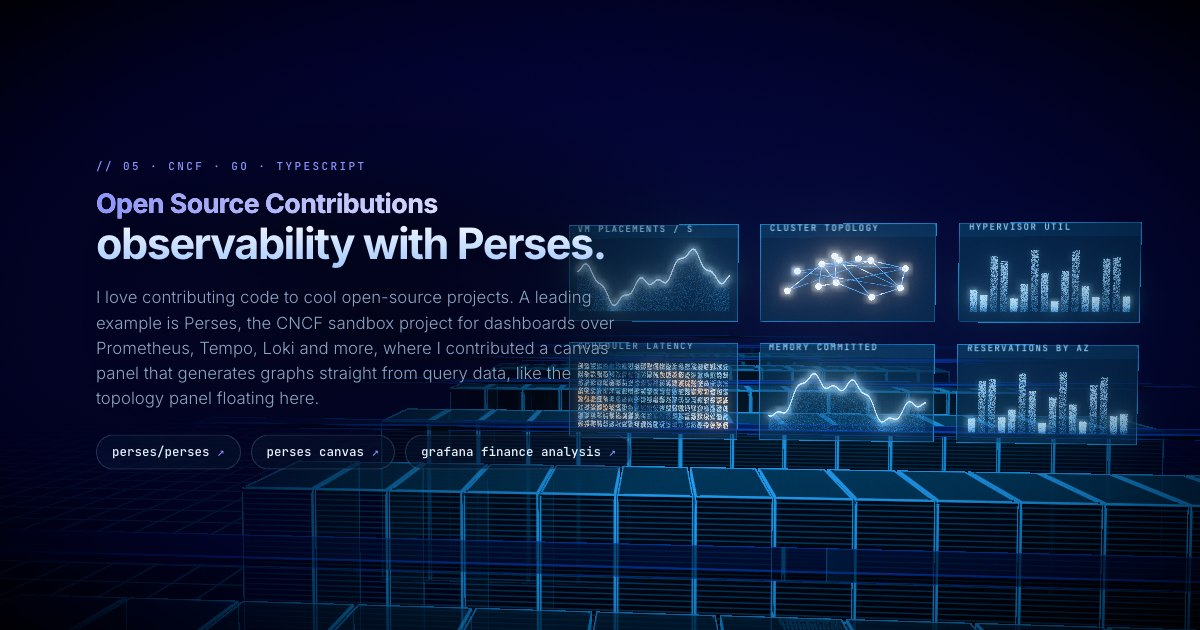
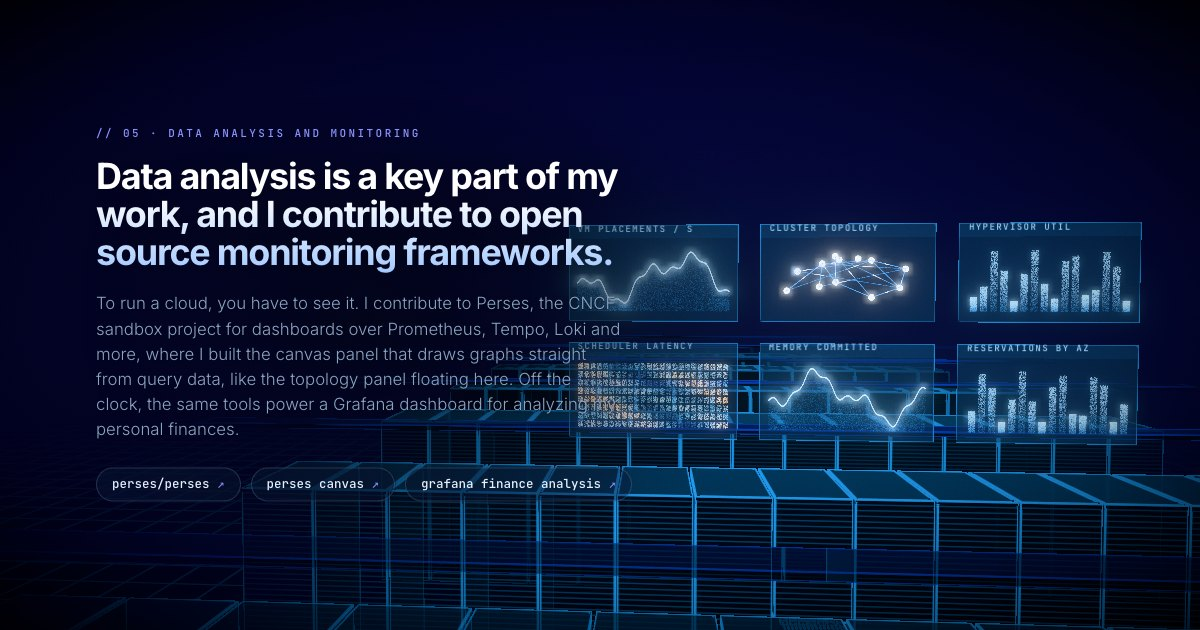
Refocus the chapter copy and keep the 3D cover readable on phones
Each chapter now leads with a first-person headline and a reframed
text; the agentic chapter is prose instead of bullets, and the menu
names follow the new focus. Chapter pages take the menu name as title
and the headline as description. On bottom-sheet screens the cover
orbit stops at a three-quarter view so the face doesn't turn edge-on.
Social previews are regenerated.

diff --git a/index.html b/index.html
@@ -50,13 +50,13 @@
           <span class="menu-title">Experience</span><span id="current-chapter" class="ticker" aria-live="polite"></span>
         </button>
         <ol id="experience" class="menu-list" hidden>
-          <li><a href="#threedify" data-goto="0.1">3D-Everything</a></li>
-          <li><a href="#sci" data-goto="0.268">SCI: Global Cloud Platform Development</a></li>
-          <li><a href="#cortex" data-goto="0.45">Cortex: Intelligent Workload Placement</a></li>
-          <li><a href="#agentic" data-goto="0.535">Agentic Pipelines and Operations</a></li>
-          <li><a href="#perses" data-goto="0.645">Open Source</a></li>
-          <li><a href="#research" data-goto="0.78">Data Science and Machine Learning</a></li>
-          <li><a href="#priobike" data-goto="0.895">Smart City and Navigation Systems</a></li>
+          <li><a href="#threedify" data-goto="0.1">iOS Engineering &amp; 3D Design</a></li>
+          <li><a href="#sci" data-goto="0.268">Cloud Infrastructure Engineering</a></li>
+          <li><a href="#cortex" data-goto="0.45">Cortex: Smart Workload Scheduling</a></li>
+          <li><a href="#agentic" data-goto="0.535">Agentic Development &amp; Operations</a></li>
+          <li><a href="#perses" data-goto="0.645">Data Analysis &amp; Monitoring</a></li>
+          <li><a href="#research" data-goto="0.78">PhD Research: Machine Learning</a></li>
+          <li><a href="#priobike" data-goto="0.895">PrioBike: Smart City Navigation</a></li>
           <li><a href="#contact" data-goto="1">Contact &amp; imprint</a></li>
         </ol>
       </div>
@@ -72,15 +72,15 @@
     <main id="overlay">
       <!-- data-band: fade in a→b, hold, fade out c→d (scroll progress 0..1) -->
       <section class="chapter hero" data-band="-1,-1,0.03,0.046">
-        <h1>Hey, I'm Philipp.</h1>
+        <h1>Hey, I'm Philipp!</h1>
         <p class="lead">Software engineer eager to build cool stuff.</p>
         <img class="fallback-portrait" src="./assets/selfie.webp" alt="Portrait of Philipp Matthes" width="256" height="256" />
       </section>
 
       <section class="chapter left" id="threedify" data-band="0.054,0.066,0.136,0.148">
-        <p class="eyebrow">// 01 · iOS · Metal · CoreML · Cinema 4D</p>
-        <h2><span class="proj">3D Rendering &amp; Design</span>turning flat photos into 3D.</h2>
-        <p class="lead">3D has been my thing since school: modeling and animation, then half a year in Cinema 4D at a 3D agency before university. Later I started writing my own rendering pipelines, like 3Dify: it estimates depth for any photo with a blend of three CoreML models and renders it with Metal parallax occlusion mapping. This cover is a nod to it.</p>
+        <p class="eyebrow">// 01 · iOS engineering · 3D design and shading</p>
+        <h2>I love developing iOS and Mac apps that bring photos into 3D.</h2>
+        <p class="lead">I've built iOS apps for years, and 3D has been my thing since school: half a year in Cinema 4D at a media agency, then computer graphics at university. 3Dify brings both together. It estimates depth from a single photo with on-device CoreML models and renders it with Metal shaders, much like this portrait turning into a 3D point cloud. Neural Greenscreen removes backgrounds in real time as a macOS virtual camera.</p>
         <div class="cards">
           <a class="card" href="https://github.com/PhilippMatthes/3dify-ios" target="_blank" rel="noreferrer">
             <b>3Dify</b>
@@ -94,9 +94,9 @@
       </section>
 
       <section class="chapter right" id="sci" data-band="0.212,0.226,0.308,0.322">
-        <p class="eyebrow">// 02 · SAP · Senior Platform Engineering Specialist</p>
-        <h2><span class="proj">SAP Cloud Infrastructure</span>building the next generation cloud for Europe.</h2>
-        <p class="lead">I work on CobaltCore, the new KVM stack behind SAP's global cloud of 20+ datacenters and 100,000+ virtual machines, and the reference implementation of ApeiroRA, the Apeiro Reference Architecture for Europe under the governance of Linux Foundation Europe. My focus is scheduling and inventory: deciding where every workload runs.</p>
+        <p class="eyebrow">// 02 · Cloud infrastructure engineering</p>
+        <h2>At SAP, I helped build the next generation cloud for Europe.</h2>
+        <p class="lead">I worked on CobaltCore, the new KVM stack behind SAP's global cloud of 20+ datacenters and 100,000+ virtual machines, and the reference implementation of ApeiroRA, the Apeiro Reference Architecture for Europe under the governance of Linux Foundation Europe. My focus was scheduling and inventory: deciding where every workload runs.</p>
         <div class="links start">
           <a href="https://apeirora.eu/" target="_blank" rel="noreferrer">apeirora.eu</a>
           <a href="https://cobaltcore.dev/" target="_blank" rel="noreferrer">cobaltcore.dev</a>
@@ -105,8 +105,8 @@
 
       <section class="chapter left" id="cortex" data-band="0.404,0.416,0.482,0.493">
         <p class="eyebrow">// 03 · Go · Kubernetes · OpenStack</p>
-        <h2><span class="proj">Cortex</span>smart placement for every VM.</h2>
-        <p class="lead">Cortex is the scheduler of SAP Cloud Infrastructure, and I'm its leading contributor, having built it from the ground up. It places every new KVM virtual machine and continuously rebalances the inventory, driven by real virtual machine data, bridging OpenStack scheduling and a cloud-native Kubernetes world.</p>
+        <h2>I am the lead contributor of Cortex, a smart cloud workload scheduler.</h2>
+        <p class="lead">I built it from the ground up for SAP Cloud Infrastructure: it places every new KVM virtual machine and continuously rebalances the inventory based on real utilization data, bridging OpenStack scheduling and a cloud-native Kubernetes world. I also helped develop central Kubernetes components, like the VM operator and the KVM node agent, that drive thousands of customer-critical workloads today.</p>
         <div class="links start">
           <a href="https://github.com/cobaltcore-dev/cortex" target="_blank" rel="noreferrer">cortex</a>
           <a href="https://github.com/cobaltcore-dev/vm-operator" target="_blank" rel="noreferrer">vm-operator</a>
@@ -115,15 +115,9 @@
       </section>
 
       <section class="chapter right" id="agentic" data-band="0.503,0.515,0.566,0.578">
-        <p class="eyebrow">// 04 · CobaltCore · AI agents</p>
-        <h2><span class="proj">Agentic Development &amp; Operations</span>AI that helps build and run the cloud.</h2>
-        <p class="lead">Around CobaltCore I build AI systems that take work off engineers and operators:</p>
-        <ul class="bullets">
-          <li><b>Host outage prediction</b> prototype using SAP-RPT-1 <em>2nd place, international SAP hackathon</em></li>
-          <li><b>Agentic release &amp; review pipeline</b>, fully integrated for CobaltCore</li>
-          <li><b>Knowledge graph</b> matching issues to commits</li>
-          <li><b>Agent network sandboxing</b> with an Envoy proxy</li>
-        </ul>
+        <p class="eyebrow">// 04 · Agentic development and operations</p>
+        <h2>I built agentic systems that developers use today to move faster.</h2>
+        <p class="lead">Around CobaltCore, AI agents take routine work off engineers and operators. An agentic review and release pipeline checks pull requests and prepares releases, fully integrated into the project's workflow, while a knowledge graph links issues to the commits that resolved them. The agents get their inference from Thalamus and reach the network only through an Envoy proxy that sandboxes them. My prototype for predicting host outages with SAP-RPT-1 won 2nd place at an international SAP hackathon.</p>
         <div class="links start">
           <a href="https://github.com/cobaltcore-dev/thalamus" target="_blank" rel="noreferrer">thalamus · inference</a>
           <a href="https://github.com/cobaltcore-dev/cortex/tree/main/.agents" target="_blank" rel="noreferrer">cortex agents</a>
@@ -132,9 +126,9 @@
       </section>
 
       <section class="chapter left" id="perses" data-band="0.59,0.602,0.69,0.703">
-        <p class="eyebrow">// 05 · CNCF · Go · TypeScript</p>
-        <h2><span class="proj">Open Source Contributions</span>observability with Perses.</h2>
-        <p class="lead">I love contributing code to cool open-source projects. A leading example is Perses, the CNCF sandbox project for dashboards over Prometheus, Tempo, Loki and more, where I contributed a canvas panel that generates graphs straight from query data, like the topology panel floating here.</p>
+        <p class="eyebrow">// 05 · Data analysis and monitoring</p>
+        <h2>Data analysis is a key part of my work, and I contribute to open source monitoring frameworks.</h2>
+        <p class="lead">To run a cloud, you have to see it. I contribute to Perses, the CNCF sandbox project for dashboards over Prometheus, Tempo, Loki and more, where I built the canvas panel that draws graphs straight from query data, like the topology panel floating here. Off the clock, the same tools power a Grafana dashboard for analyzing my personal finances.</p>
         <div class="links start">
           <a href="https://github.com/perses/perses" target="_blank" rel="noreferrer">perses/perses</a>
           <a href="https://github.com/perses/plugins/tree/main/canvas" target="_blank" rel="noreferrer">perses canvas</a>
@@ -143,9 +137,9 @@
       </section>
 
       <section class="chapter right" id="research" data-band="0.735,0.747,0.82,0.832">
-        <p class="eyebrow">// 06 · TU Dresden · Dr.-Ing. 2024</p>
-        <h2><span class="proj">PhD research</span>machine learning for smart cities.</h2>
-        <p class="lead">For my PhD I developed machine-learning models for smart-city use cases and evaluated them on real-world data: matching traffic lights and lanes to bike routes, measuring how predictable 18,009 traffic lights are, and detecting transport modes on phones.</p>
+        <p class="eyebrow">// 06 · TU Dresden · PhD research</p>
+        <h2>I know how to build strong data-driven solutions, like machine learning models.</h2>
+        <p class="lead">For my PhD at TU Dresden (Dr.-Ing., 2024), I developed machine-learning models for smart-city use cases and evaluated them on real-world data: matching traffic lights and lanes to bike routes, measuring how predictable 18,009 traffic lights in Hamburg are, and detecting transport modes on phones.</p>
         <ul class="pubs">
           <li><b>Cloudy with a Chance of Green: Measuring the Predictability of 18,009 Traffic Lights in Hamburg</b><span>IEEE IV 2024</span></li>
           <li><b>GeoAI-Powered Lane Matching for Bike Routes in GLOSA Apps</b><span>ACM SIGSPATIAL 2023</span></li>
@@ -155,9 +149,9 @@
       </section>
 
       <section class="chapter left" id="priobike" data-band="0.848,0.86,0.928,0.94">
-        <p class="eyebrow">// 07 · lead engineer · Flutter · Go · Python</p>
-        <h2><span class="proj">PrioBike</span>a green wave for cyclists.</h2>
-        <p class="lead">As lead engineer and PhD student I built PrioBike end to end and field-tested it in Hamburg: the app gives cyclists speed advice to catch the green wave from live data of 10,000+ traffic lights. I wrote the probabilistic traffic-light prediction in Go, the ML traffic-light matching in Python, and a GraphHopper-based bike routing more accurate than Google Maps and OSM.</p>
+        <p class="eyebrow">// 07 · Lead engineer · Flutter · Go · Python</p>
+        <h2>I built PrioBike, a green wave app for cyclists.</h2>
+        <p class="lead">As lead engineer and PhD student, I took PrioBike from idea to field test in Hamburg. The app gives cyclists speed advice to catch the green wave, based on live data from 10,000+ traffic lights. I wrote the probabilistic traffic-light prediction in Go, the ML matching of traffic lights to routes in Python, and a GraphHopper-based bike routing more accurate than Google Maps and OSM. PrioBike won 3rd place at the Deutscher Fahrradpreis.</p>
         <div class="links start">
           <a href="https://github.com/priobike/priobike-flutter-app" target="_blank" rel="noreferrer">priobike app</a>
           <a href="https://github.com/priobike/priobike-predictor" target="_blank" rel="noreferrer">traffic light prediction</a>
@@ -182,7 +176,7 @@
     </main>
 
     <div id="labels" aria-hidden="true"></div>
-    <div class="scroll-hint" aria-hidden="true"><span>scroll</span><i></i></div>
+    <div class="scroll-hint" aria-hidden="true"><span>scroll to see the projects I've been working on</span><i></i></div>
     <div id="debug" hidden></div>
 
     <div id="scroll-space"></div>

diff --git a/src/style.css b/src/style.css
@@ -152,19 +152,7 @@ h1, h2 {
   margin-bottom: -0.14em;
 }
 h1 { font-size: clamp(44px, 8vw, 104px); }
-h2 { font-size: clamp(30px, 3.6vw, 54px); line-height: 1.04; }
-h2 .proj {
-  display: block;
-  margin-bottom: 0.12em;
-  font-size: 0.62em;
-  letter-spacing: -0.02em;
-  padding-bottom: 0.14em;
-  margin-bottom: -0.04em;
-  background: linear-gradient(90deg, var(--accent), #ffffff);
-  -webkit-background-clip: text;
-  background-clip: text;
-  color: transparent;
-}
+h2 { font-size: clamp(28px, 3vw, 46px); line-height: 1.06; text-wrap: balance; }
 .outro h2 { font-size: clamp(34px, 4.4vw, 62px); line-height: 0.98; }
 .lead {
   text-shadow: 0 1px 2px rgba(0, 0, 0, 0.55), 0 0 18px rgba(0, 0, 0, 0.6);
@@ -177,35 +165,6 @@ h2 .proj {
   text-wrap: pretty;
 }
 
-.bullets { list-style: none; margin: 18px 0 0; padding: 0; display: grid; gap: 10px; }
-.bullets li {
-  position: relative;
-  padding-left: 18px;
-  font-size: clamp(14px, 1.2vw, 16px);
-  line-height: 1.45;
-  color: #a3b8d6;
-  text-shadow: 0 1px 2px rgba(0, 0, 0, 0.55), 0 0 18px rgba(0, 0, 0, 0.6);
-}
-.bullets li::before {
-  content: '';
-  position: absolute;
-  left: 0;
-  top: 0.62em;
-  width: 7px;
-  height: 7px;
-  border-radius: 50%;
-  background: var(--accent);
-  box-shadow: 0 0 8px var(--accent);
-}
-.bullets b { color: var(--ink); font-weight: 600; }
-.bullets em {
-  display: inline-block;
-  margin-left: 6px;
-  font: normal 500 10px/1.6 var(--mono);
-  letter-spacing: 0.12em;
-  text-transform: uppercase;
-  color: var(--accent);
-}
 
 .imprint {
   display: flex;
@@ -478,8 +437,11 @@ h2 .proj {
   flex-direction: column;
   align-items: center;
   gap: 8px;
-  font: 500 9px/1 var(--mono);
-  letter-spacing: 0.3em;
+  width: max-content;
+  max-width: calc(100vw - 32px);
+  font: 500 9px/1.5 var(--mono);
+  letter-spacing: 0.22em;
+  text-align: center;
   text-transform: uppercase;
   color: var(--muted);
   opacity: var(--hint);
@@ -528,11 +490,9 @@ h2 .proj {
   .rail { display: none; }
   .chapter.left::before, .chapter.right::before { display: none; }
   .eyebrow { font-size: 10px; letter-spacing: 0.18em; margin-bottom: 12px; }
-  h2 { font-size: clamp(25px, 6.6vw, 36px); }
+  h2 { font-size: clamp(23px, 5.8vw, 32px); }
   .lead { font-size: 14.5px; line-height: 1.45; margin-top: 14px; }
   .chapter.hero .lead { font-size: 17px; }
-  .bullets { margin-top: 12px; gap: 7px; }
-  .bullets li { font-size: 13.5px; }
   .pubs { margin-top: 16px; }
   .pubs b { font-size: 12.5px; }
   .pubs li:nth-child(n + 3) { display: none; }
@@ -588,11 +548,11 @@ h2 .proj {
   .chapter.left, .chapter.right { max-width: min(46vw, 440px); }
   .chapter.left { left: clamp(56px, 7vw, 96px); }
   .eyebrow { font-size: 9px; margin-bottom: 8px; }
-  h2 { font-size: 22px; }
+  h2 { font-size: 20px; }
   .lead { font-size: 12.5px; line-height: 1.4; margin-top: 10px; }
-  .bullets { margin-top: 8px; gap: 4px; }
-  .bullets li { font-size: 12px; }
   .chapter .pubs, .card span { display: none; }
+  .label.panel-title { font-size: 8px; letter-spacing: 0.08em; }
+  .label.agent-title { font-size: 7px; letter-spacing: 0.02em; }
   .cards { grid-template-columns: 1fr 1fr; margin-top: 12px; }
   .card { padding: 9px 11px; }
   .links.start { margin-top: 12px; }

diff --git a/src/core/cameraRig.ts b/src/core/cameraRig.ts
@@ -23,6 +23,11 @@ interface Key {
    * of view, for subjects that would otherwise look small on a narrow phone.
    */
   zoom?: number
+  /**
+   * Bottom-sheet screens only: a different eye position. Without the sideways
+   * shift, a wide orbit turns the subject edge-on, so these keys orbit less.
+   */
+  sheetPos?: [number, number, number]
 }
 
 /**
@@ -42,9 +47,10 @@ const KEYS: Key[] = [
   { p: 0.0, pos: [0, 29.1, 10.6], target: [0, 29.1, 0], fov: 36, zoom: 1.75 },
   { p: 0.035, pos: [0, 29.2, 10.0], target: [0, 29.2, 0], fov: 36, zoom: 1.6 },
   // it burns into a point cloud while we orbit to the side
-  { p: 0.065, pos: orbit(26, 9.0, 29.9), target: [0, 29.6, 0], fov: 38, shift: 0.8 },
-  { p: 0.095, pos: orbit(48, 8.8, 30.5), target: [0, 29.7, 0], fov: 40, shift: 1.4 },
-  { p: 0.125, pos: orbit(60, 8.6, 30.9), target: [0, 29.7, 0], fov: 40, shift: 1.4 },
+  // (phones stay at a three-quarter view, so the face keeps reading as a face)
+  { p: 0.065, pos: orbit(26, 9.0, 29.9), sheetPos: orbit(16, 9.4, 29.9), target: [0, 29.6, 0], fov: 38, shift: 0.8, zoom: 1.15 },
+  { p: 0.095, pos: orbit(48, 8.8, 30.5), sheetPos: orbit(22, 9.4, 30.0), target: [0, 29.7, 0], fov: 40, shift: 1.4, zoom: 1.1 },
+  { p: 0.125, pos: orbit(60, 8.6, 30.9), sheetPos: orbit(26, 9.4, 30.1), target: [0, 29.7, 0], fov: 40, shift: 1.4, zoom: 1.1 },
   // the points rain down onto the datacenter
   { p: 0.165, pos: [4, 34, 14], target: [0, 16, 0], fov: 42 },
   { p: 0.21, pos: [0, 42, 30], target: [0, 0, 0], fov: 45 },
@@ -81,6 +87,7 @@ const KEYS: Key[] = [
 
 const v = (a: [number, number, number]) => new Vector3(...a)
 const POS = KEYS.map((k) => v(k.pos))
+const SHEET_POS = KEYS.map((k) => v(k.sheetPos ?? k.pos))
 const TGT = KEYS.map((k) => v(k.target))
 
 function catmull(pts: Vector3[], i: number, t: number, out: Vector3) {
@@ -138,7 +145,7 @@ export class CameraRig {
     const b = KEYS[i + 1]
     const lt = range(p, a.p, b.p)
     const t = lerp(lt, smooth(lt), 0.65)
-    catmull(POS, i, t, pos)
+    catmull(this.sheet ? SHEET_POS : POS, i, t, pos)
     catmull(TGT, i, t, target)
     return [lerp(a.fov, b.fov, t), lerp(a.shift ?? 0, b.shift ?? 0, t), lerp(a.zoom ?? 1, b.zoom ?? 1, t)]
   }

diff --git a/vite.config.ts b/vite.config.ts
@@ -21,12 +21,12 @@ function chapterPages(): Plugin {
       const menu = new Map([...html.matchAll(/<a href="#([\w-]+)" data-goto="[\d.]+">([^<]+)<\/a>/g)].map((m) => [m[1], text(m[2])]))
       for (const [, id, body] of html.matchAll(/<section class="chapter[^"]*" id="([\w-]+)"[^>]*>([\s\S]*?)<\/section>/g)) {
         const name = menu.get(id) ?? id
-        const h2 = body.match(/<h2>([\s\S]*?)<\/h2>/)
-        const proj = h2?.[1].match(/<span class="proj">([\s\S]*?)<\/span>/)
-        const tagline = h2 ? text(h2[1].replace(/<span class="proj">[\s\S]*?<\/span>/, '')).replace(/\.$/, '') : ''
+        const h2 = text(body.match(/<h2>([\s\S]*?)<\/h2>/)?.[1] ?? '')
         const lead = text(body.match(/<p class="lead">([\s\S]*?)<\/p>/)?.[1] ?? '')
-        const title = `${proj ? text(proj[1]) : name}: ${tagline || name} · Philipp Matthes`
-        const description = lead.length > 200 ? lead.slice(0, lead.lastIndexOf(' ', 197)) + '…' : lead
+        const title = `${name} · Philipp Matthes`
+        // The headline is a full sentence; it leads the description.
+        const summary = [h2, lead].filter(Boolean).join(' ')
+        const description = summary.length > 200 ? summary.slice(0, summary.lastIndexOf(' ', 197)) + '…' : summary
         const source = `<!doctype html>
 <html lang="en">
 <head>

diff --git a/src/chapters/agents.ts b/src/chapters/agents.ts
@@ -51,7 +51,7 @@ export const STATIONS = [
   { name: 'knowledge graph', x: 0.134 },
 ] as const
 /** World-space width a card's title may take. */
-export const CARD_TITLE_W = CARD.w - 0.008
+export const CARD_TITLE_W = CARD.w - 0.006
 
 const JOBS = 2
 const CYCLE = 10 // seconds per job
